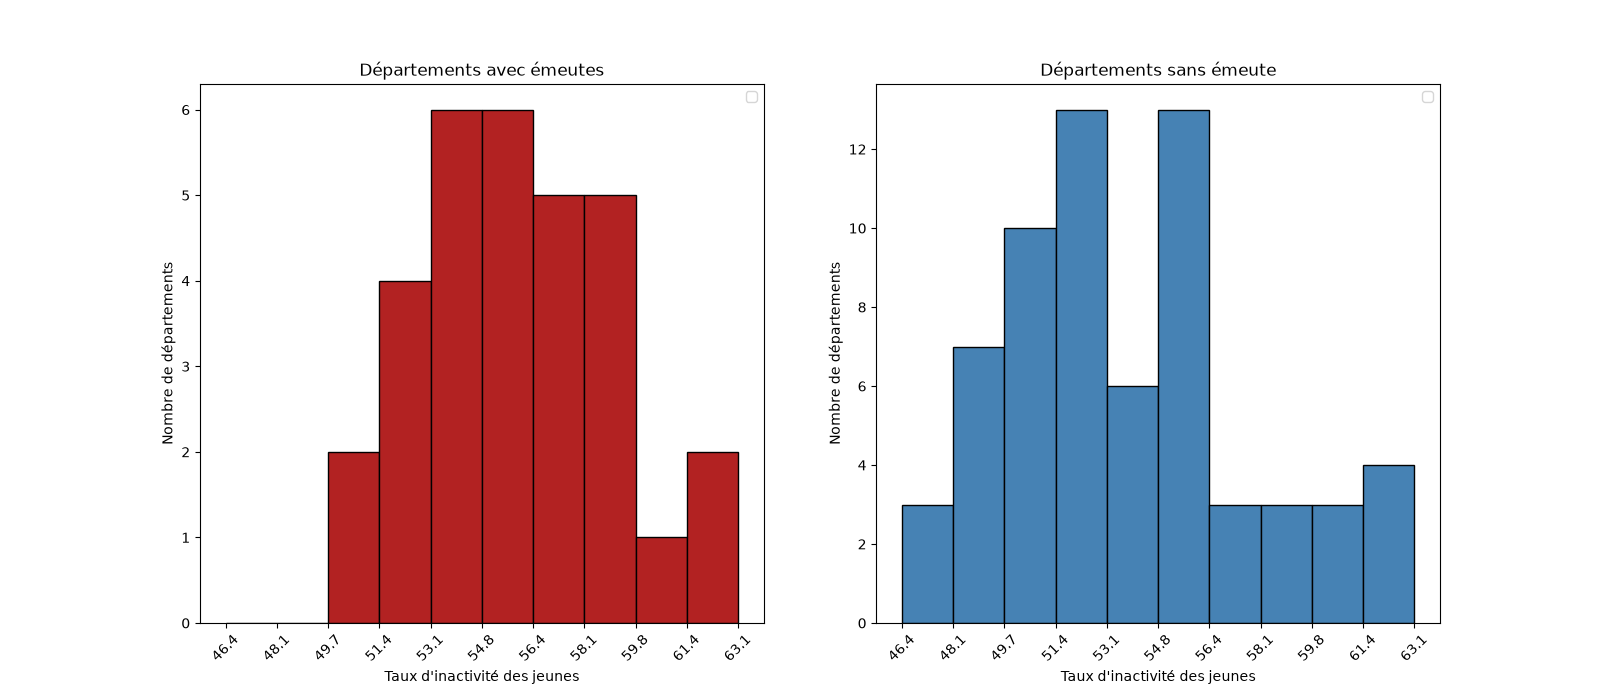
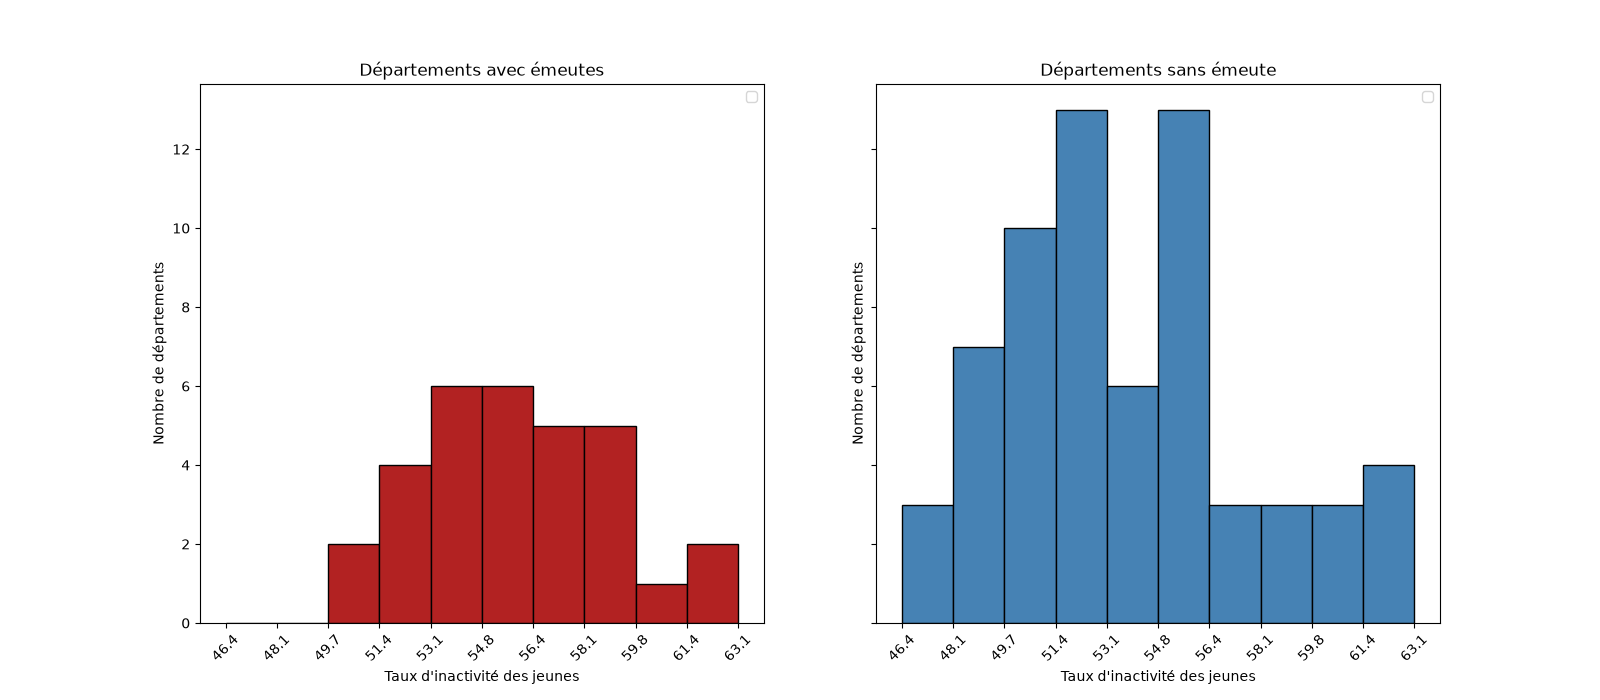
Rectification de l'échelle des histogrammes

diff --git a/GDELT_data/cloud_data/carte_emeutes_2026.py b/GDELT_data/cloud_data/carte_emeutes_2026.py
@@ -121,7 +121,7 @@ data_non_émeutes = data_tout[data_tout["count"].astype(float)==0]
 
 bins = np.linspace(data_tout["inactivité"].min(), data_tout["inactivité"].max(), 11)
 
-fig, (ax1, ax2) = plt.subplots(1, 2, figsize=(16, 7))
+fig, (ax1, ax2) = plt.subplots(1, 2, figsize=(16, 7), sharex=True, sharey=True)
 
 ax1.hist(data_émeutes["inactivité"], bins=bins, color="firebrick", edgecolor="black")
 ax1.set_title("Départements avec émeutes")
@@ -144,7 +144,7 @@ variable = "QPV - Quartiers prioritaires de la politique de la ville 2024 : Part
 
 bins1 = np.linspace(data_tout[variable].min(), data_tout[variable].max(), 11)
 
-fig, (ax1, ax2) = plt.subplots(1, 2, figsize=(16, 7))
+fig, (ax1, ax2) = plt.subplots(1, 2, figsize=(16, 7), sharex=True, sharey=True)
 
 ax1.hist(data_émeutes[variable], bins=bins1, color="firebrick", edgecolor="black")
 ax1.set_title("Départements avec émeutes")
